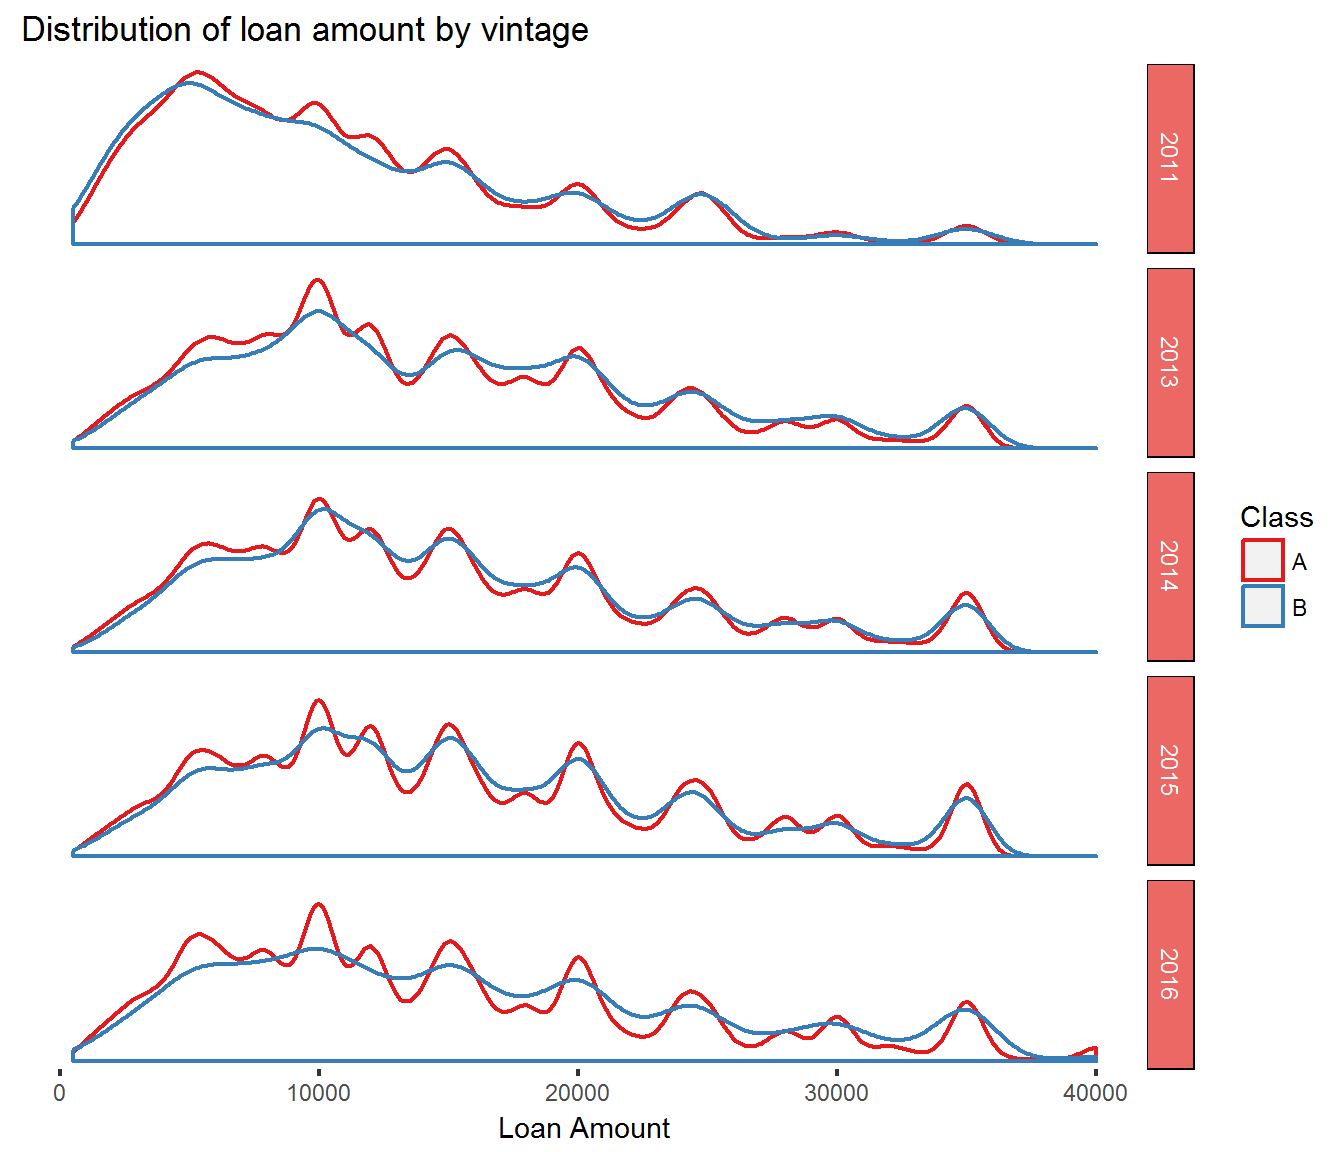
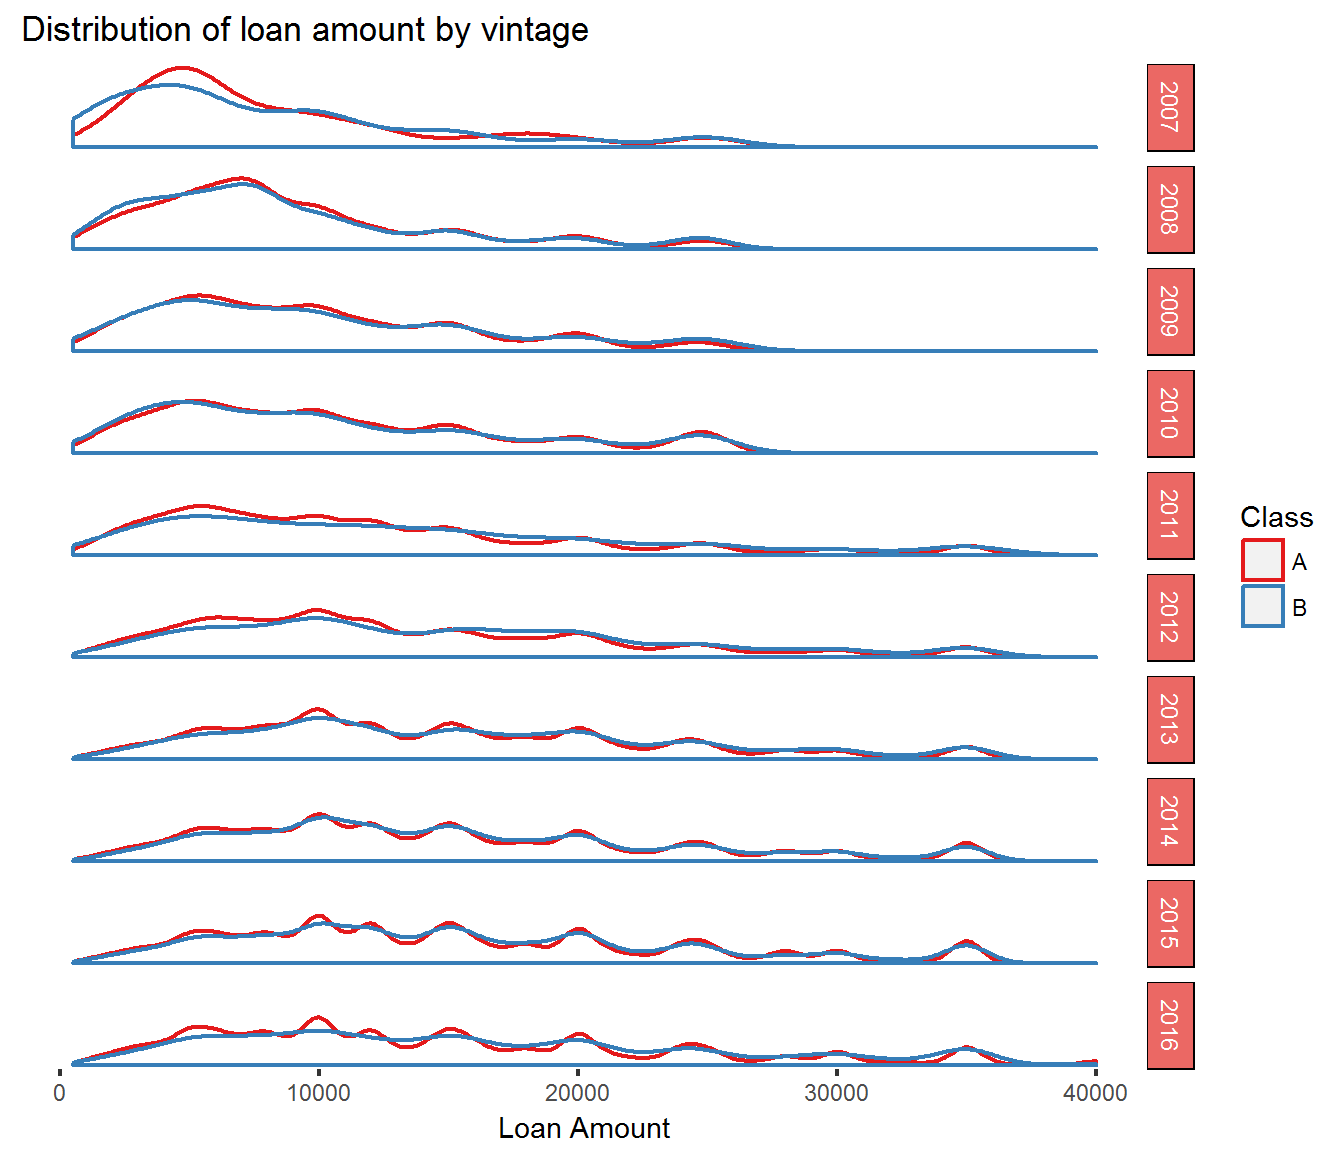
update daily progress 5/3

diff --git a/vignettes/LoanGrades.html b/vignettes/LoanGrades.html
@@ -125,8 +125,8 @@ $(document).ready(function () {
 <li><p>Current and loans in the grace period are classified as current (A) and all other loans have been classified as defaulted (B). Some of those late loans will be made current it’s not a likely action. Contrarily, some of the loans in the grace period will go into default.</p></li>
 <li><p>No filters have been applied to the dataset. All loans, including those which not yet matured, are included in the data. While this may be useful for data about originations, it will require consideration when interpreting default rates.</p></li>
 </ol>
-<div id="loan-distribution-by-grade" class="section level2">
-<h2>Loan Distribution by Grade</h2>
+<div id="loan-distribution-by-grade" class="section level3">
+<h3>Loan Distribution by Grade</h3>
 <table>
 <caption>Distribution by Loan Grade</caption>
 <thead>
@@ -175,8 +175,11 @@ $(document).ready(function () {
 </tbody>
 </table>
[1 lines of base64/hex data omitted]
-<p>There are 1,321,847 loans in the dataset and the median loan grade level is C. We can further describe this distribution using skewness and kurtosis. From the table we can say intuitively that it is skewed towards the lower loan grades and tat the lower grade tail is fatter than the higher grade tail. This is inherently true beacause the max grade is A and a tail with values greater than A cannot exist.</p>
-<p>Kurtosis is a description of the shape or peakedness of the curve. The kurtosis score for this distribution is 0.071596. For comparison, the normal distribution has a score of 3.0. We can interpret the comparison to say our issued loan distribution produces fewer and less extreme outliers than the normal distribution. Again, this makes sense intuitively because there are only 7 possible grades. This poses an upper and lower constraint on the loans effectively eliminating extreme outliers.</p>
+<p>There are 1,321,847 loans in the dataset and the median loan grade level is C. We can further describe this distribution using skewness and kurtosis. From the chart we can say that the data is skewed towards the lower loan grades and that the lower grade tail is fatter than the higher grade tail. This is inherently true beacause the max grade is A and you cannot have a tail with values greater than A.</p>
+<p>Kurtosis is a description of the shape or peaked-ness of the curve. The kurtosis score for this distribution is 0.071596. For comparison, the normal distribution has a score of 3.0. We can interpret the comparison to say our issued loan distribution produces fewer and less extreme outliers than the normal distribution. Again, this makes sense intuitively because there are only 7 possible grades. This poses an upper and lower constraint on the loans effectively eliminating extreme outliers.</p>
+</div>
+<div id="distribution-by-year" class="section level3">
+<h3>Distribution by Year</h3>
 <table>
 <thead>
 <tr class="header">
@@ -207,9 +210,12 @@ $(document).ready(function () {
 </tr>
 </tbody>
 </table>
-<p>LC was founded in 2007 so clearly they have not pulished data from their entire history. The first 4 years of data have been excluded from the dataset. Of the published data, the number of loans issued has grown significantly since 2011. In fact the first year growth rate was 442%. Growth has leveled off since 2015 to only 3%. The CAGR from 2011 to 2016 is 59%.</p>
+<p>LC was founded in 2007 so clearly they have not pulished data from their entire history. The 2007- 2010 data have been excluded from the dataset. Of the published data, the number of loans issued has grown significantly since 2011. In fact the growth rate in the first 2 years was 110%. Growth has leveled off since 2015 to only 3%. The CAGR from 2011 to 2016 is 59%.</p>
 <blockquote>
-<p>QUESTION: Why has growth slowed in the past year?</p>
+<p>QUESTION: Why has growth slowed in the past year? Does this signal a change in borrower mix and would that affect default rates?</p>
+</blockquote>
+<blockquote>
+<p>QUESTION: Where is 2012 data?</p>
 </blockquote>
 <table>
 <caption>Distribution by Loan Grade and Year</caption>
@@ -282,13 +288,14 @@ $(document).ready(function () {
 </tr>
 </tbody>
 </table>
+<p>In 2011, the A grade had a much higher share of the loans than in later years. We can see from the change between 2011 and 2013 that the share had shifted towards the B and C grades. &gt; QUESTION: Is this due to a change in the scoring model or the applicant pool?</p>
+</div>
 <div id="package-version" class="section level3">
 <h3>Package Version</h3>
 <p>The analysis was based on LendingClubData version 0.1.2.</p>
 </div>
 <div id="references" class="section level3">
 <h3>References</h3>
-</div>
 </div>
 
 

diff --git a/docs/articles/LoanGrades.html b/docs/articles/LoanGrades.html
@@ -146,39 +146,61 @@
 </tr></thead>
 <tbody>
 <tr class="odd">
-<td align="left">2011</td>
-<td align="right">42,535</td>
+<td align="left">2007</td>
+<td align="right">603</td>
 </tr>
 <tr class="even">
-<td align="left">2013</td>
-<td align="right">188,181</td>
+<td align="left">2008</td>
+<td align="right">2,393</td>
 </tr>
 <tr class="odd">
+<td align="left">2009</td>
+<td align="right">5,281</td>
+</tr>
+<tr class="even">
+<td align="left">2010</td>
+<td align="right">12,537</td>
+</tr>
+<tr class="odd">
+<td align="left">2011</td>
+<td align="right">21,721</td>
+</tr>
+<tr class="even">
+<td align="left">2012</td>
+<td align="right">53,367</td>
+</tr>
+<tr class="odd">
+<td align="left">2013</td>
+<td align="right">134,814</td>
+</tr>
+<tr class="even">
 <td align="left">2014</td>
 <td align="right">235,629</td>
 </tr>
-<tr class="even">
+<tr class="odd">
 <td align="left">2015</td>
 <td align="right">421,095</td>
 </tr>
-<tr class="odd">
+<tr class="even">
 <td align="left">2016</td>
 <td align="right">434,407</td>
 </tr>
 </tbody>
 </table>
-<p>LC was founded in 2007 so clearly they have not pulished data from their entire history. The 2007- 2010 data have been excluded from the dataset. Of the published data, the number of loans issued has grown significantly since 2011. In fact the growth rate in the first 2 years was 110%. Growth has leveled off since 2015 to only 3%. The CAGR from 2011 to 2016 is 59%.</p>
+<p>The number of loans issued has grown significantly since 2007. In fact the growth rate in the first 2 years was 110%. Growth has leveled off since 2015 to only 3%. The CAGR from 2007 to 2016 is 93%.</p>
 <blockquote>
-<p>QUESTION: Why has growth slowed in the past year? Does this signal a change in borrower mix and would that affect default rates?</p>
-</blockquote>
-<blockquote>
-<p>QUESTION: Where is 2012 data?</p>
+<p>QUESTION: Why has growth slowed in the past year? Does this signal a change in the borrower mix and would that affect default rates?</p>
 </blockquote>
 <table class="table">
 <caption>Distribution by Loan Grade and Year</caption>
 <thead><tr class="header">
 <th align="left">grade</th>
+<th align="right">2007</th>
+<th align="right">2008</th>
+<th align="right">2009</th>
+<th align="right">2010</th>
 <th align="right">2011</th>
+<th align="left">2012</th>
 <th align="right">2013</th>
 <th align="right">2014</th>
 <th align="right">2015</th>
@@ -187,15 +209,25 @@
 <tbody>
 <tr class="odd">
 <td align="left">A</td>
-<td align="right">0.24</td>
-<td align="right">0.15</td>
+<td align="right">0.13</td>
+<td align="right">0.13</td>
+<td align="right">0.23</td>
+<td align="right">0.23</td>
+<td align="right">0.26</td>
+<td align="left">0.20</td>
+<td align="right">0.13</td>
 <td align="right">0.15</td>
 <td align="right">0.17</td>
 <td align="right">0.16</td>
 </tr>
 <tr class="even">
 <td align="left">B</td>
+<td align="right">0.16</td>
+<td align="right">0.25</td>
+<td align="right">0.27</td>
 <td align="right">0.29</td>
+<td align="right">0.30</td>
+<td align="left">0.35</td>
 <td align="right">0.33</td>
 <td align="right">0.26</td>
 <td align="right">0.28</td>
@@ -203,15 +235,25 @@
 </tr>
 <tr class="odd">
 <td align="left">C</td>
-<td align="right">0.21</td>
-<td align="right">0.27</td>
+<td align="right">0.23</td>
+<td align="right">0.24</td>
+<td align="right">0.26</td>
+<td align="right">0.22</td>
+<td align="right">0.18</td>
+<td align="left">0.22</td>
+<td align="right">0.28</td>
 <td align="right">0.28</td>
 <td align="right">0.29</td>
 <td align="right">0.30</td>
 </tr>
 <tr class="even">
 <td align="left">D</td>
-<td align="right">0.14</td>
+<td align="right">0.16</td>
+<td align="right">0.18</td>
+<td align="right">0.15</td>
+<td align="right">0.15</td>
+<td align="right">0.13</td>
+<td align="left">0.14</td>
 <td align="right">0.15</td>
 <td align="right">0.18</td>
 <td align="right">0.15</td>
@@ -219,7 +261,12 @@
 </tr>
 <tr class="odd">
 <td align="left">E</td>
+<td align="right">0.17</td>
+<td align="right">0.12</td>
+<td align="right">0.06</td>
 <td align="right">0.08</td>
+<td align="right">0.08</td>
+<td align="left">0.06</td>
 <td align="right">0.07</td>
 <td align="right">0.09</td>
 <td align="right">0.08</td>
@@ -227,7 +274,12 @@
 </tr>
 <tr class="even">
 <td align="left">F</td>
+<td align="right">0.09</td>
+<td align="right">0.05</td>
+<td align="right">0.02</td>
+<td align="right">0.02</td>
 <td align="right">0.03</td>
+<td align="left">0.02</td>
 <td align="right">0.03</td>
 <td align="right">0.03</td>
 <td align="right">0.02</td>
@@ -235,7 +287,12 @@
 </tr>
 <tr class="odd">
 <td align="left">G</td>
+<td align="right">0.06</td>
+<td align="right">0.04</td>
 <td align="right">0.01</td>
+<td align="right">0.01</td>
+<td align="right">0.01</td>
+<td align="left">0.00</td>
 <td align="right">0.01</td>
 <td align="right">0.01</td>
 <td align="right">0.01</td>
@@ -243,7 +300,10 @@
 </tr>
 </tbody>
 </table>
-<p>In 2011, the A grade had a much higher share of the loans than in later years. We can see from the change between 2011 and 2013 that the share had shifted towards the B and C grades. &gt; QUESTION: Is this due to a change in the scoring model or the applicant pool?</p>
+<p>In 2011, the A grade had a much higher share of the loans than in later years. We can see from the change between 2011 and 2013 that the share had shifted towards the B and C grades.</p>
+<blockquote>
+<p>QUESTION: Is this due to a change in the scoring model or the applicant pool?</p>
+</blockquote>
 </div>
 <div id="package-version" class="section level3">
 <h3 class="hasAnchor">
